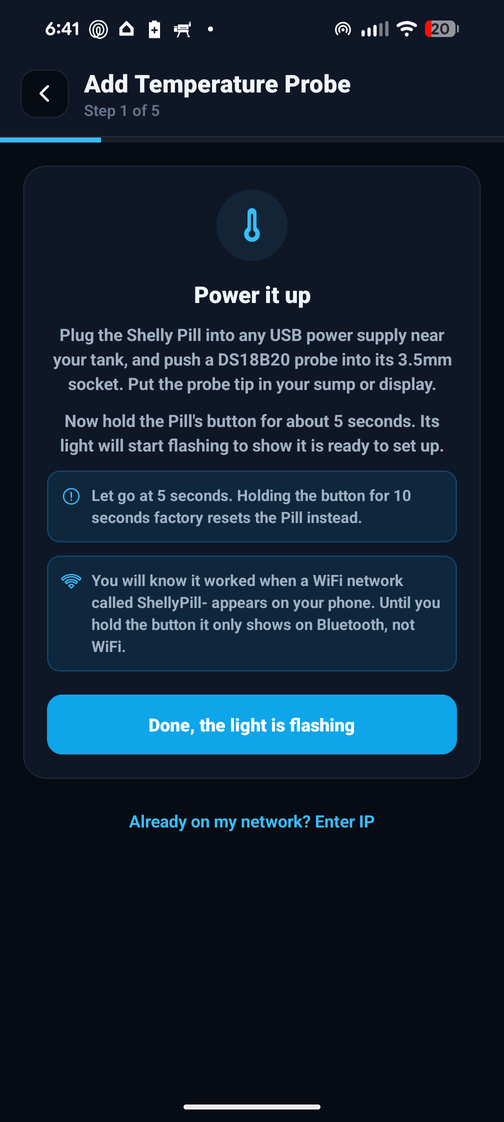
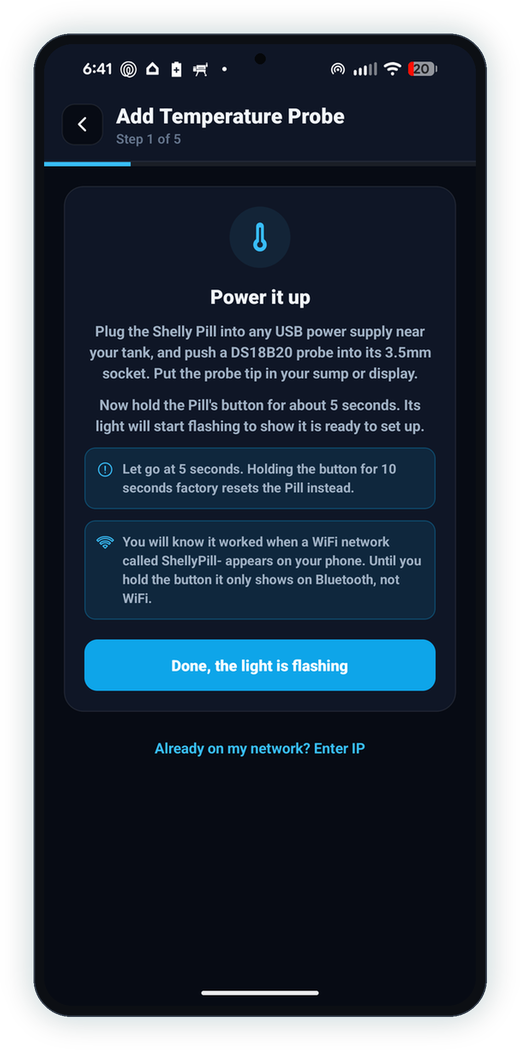
Frame the temp probe screenshots in a phone body
Matches the site-v3 mockup treatment: dark body, rim, camera, reef-blue
glow on transparency, so the CSS border and shadow come off the images.
The blog card for this post was a generic Log Parameters screen; it is
now the probe screen itself.

diff --git a/app/blog/page.tsx b/app/blog/page.tsx
@@ -63,7 +63,7 @@ const equipment: Post[] = [
 const appGuides: Post[] = [
   { slug: "reef-score-stability-score-explained", title: "Reef Score and Stability Score, Explained", description: "Exactly what each score measures, how they're weighted, and the practical ways to raise both.", date: "September 14, 2026", readTime: "9 min", tag: "Scores", image: "/screenshots/site-v3/phone-reef-pulse.png" },
   { slug: "reef-tank-automation-without-a-controller", title: "Run Your Whole Reef From One App, at Any Budget", description: "Start with smart plugs and a probe for about $90, add as you go, and connect an Apex or HYDROS when you want probes.", date: "September 21, 2026", readTime: "9 min", tag: "Budget Build", image: "/screenshots/site-v3/phones-dosing.png" },
-  { slug: "reef-tank-temperature-monitor", title: "Monitor Your Tank Temperature Without a Controller", description: "A Shelly Pill and a probe put real, measured water temperature into your log, charts and scores — set up entirely in NextUpReef, with no Shelly app and no IP addresses.", date: "September 26, 2026", readTime: "7 min", tag: "Temperature", image: "/screenshots/site-v3/phone-log.png" },
+  { slug: "reef-tank-temperature-monitor", title: "Monitor Your Tank Temperature Without a Controller", description: "A Shelly Pill and a probe put real, measured water temperature into your log, charts and scores — set up entirely in NextUpReef, with no Shelly app and no IP addresses.", date: "September 26, 2026", readTime: "9 min", tag: "Temperature", image: "/screenshots/site-v3/phone-temp-probe.png" },
   { slug: "connect-ghl-profilux", title: "Connect a GHL ProfiLux", description: "Read alkalinity, calcium and magnesium straight off a KH and ION Director, plus your probes and dosing container levels — logged automatically, no account and no cloud.", date: "September 22, 2026", readTime: "8 min", tag: "GHL", image: "/screenshots/site-v3/phones-integrations.png" },
   { slug: "reef-tank-tablet-dashboard", title: "Turn a Tablet Into a Reef Tank Dashboard", description: "Mount a spare tablet by the tank for a full-screen dashboard - and leave it on your WiFi so it becomes the hub that lets your phone reach your Apex, ReefRun, ProfiLux or Shelly from anywhere.", date: "September 25, 2026", readTime: "8 min", tag: "Tablet", image: "/screenshots/site-v3/tablet-display.png" },
   { slug: "connect-red-sea-reefrun", title: "Connect a Red Sea ReefRun", description: "Set your return pump and DC skimmer speed, see the faults the controller reports, and drop both to feed speed with the rest of your tank.", date: "September 22, 2026", readTime: "6 min", tag: "Red Sea", image: "/screenshots/site-v3/phones-integrations.png" },

diff --git a/app/blog/reef-tank-temperature-monitor/page.tsx b/app/blog/reef-tank-temperature-monitor/page.tsx
@@ -105,7 +105,7 @@ function Shot({ src, alt, caption, max = "260px" }: { src: string; alt: string; 
       <img
         src={src}
         alt={alt}
-        style={{ width: "100%", maxWidth: max, borderRadius: "20px", border: "1px solid var(--border)", boxShadow: "0 14px 34px rgba(0,0,0,0.35)" }}
+        style={{ width: "100%", maxWidth: max, display: "block" }}
       />
       {caption ? (
         <figcaption style={{ fontSize: "13.5px", lineHeight: 1.5, color: "var(--text-muted)", textAlign: "center", maxWidth: "440px" }}>
@@ -151,6 +151,13 @@ export default function ReefTemperatureMonitorPage() {
           <p>
             You do not need an $800 controller to fix that. <strong style={strong}>About $16 of parts puts real, measured water temperature into NextUpReef</strong>, updating on its own.
           </p>
+
+          <Shot
+            src="/screenshots/site-v3/phone-temp-probe.png"
+            alt="NextUpReef showing a Shelly temperature probe reading 75.1F, with alert limits, hourly logging and a 7-day trend"
+            caption="What you end up with: measured water temperature, alert limits, and a trend line built from real readings."
+            max="330px"
+          />
 
           <h2 style={h2}>The shopping list</h2>
           <div style={{ display: "flex", flexDirection: "column", gap: "12px", margin: "24px 0" }}>
@@ -199,7 +206,7 @@ export default function ReefTemperatureMonitorPage() {
                 <img
                   src={sh.src}
                   alt={sh.cap}
-                  style={{ width: "100%", maxWidth: "220px", borderRadius: "16px", border: "1px solid var(--border)", boxShadow: "0 10px 26px rgba(0,0,0,0.3)" }}
+                  style={{ width: "100%", maxWidth: "230px", display: "block" }}
                 />
                 <figcaption style={{ fontSize: "13px", lineHeight: 1.5, color: "var(--text-muted)", textAlign: "center" }}>{sh.cap}</figcaption>
               </figure>
